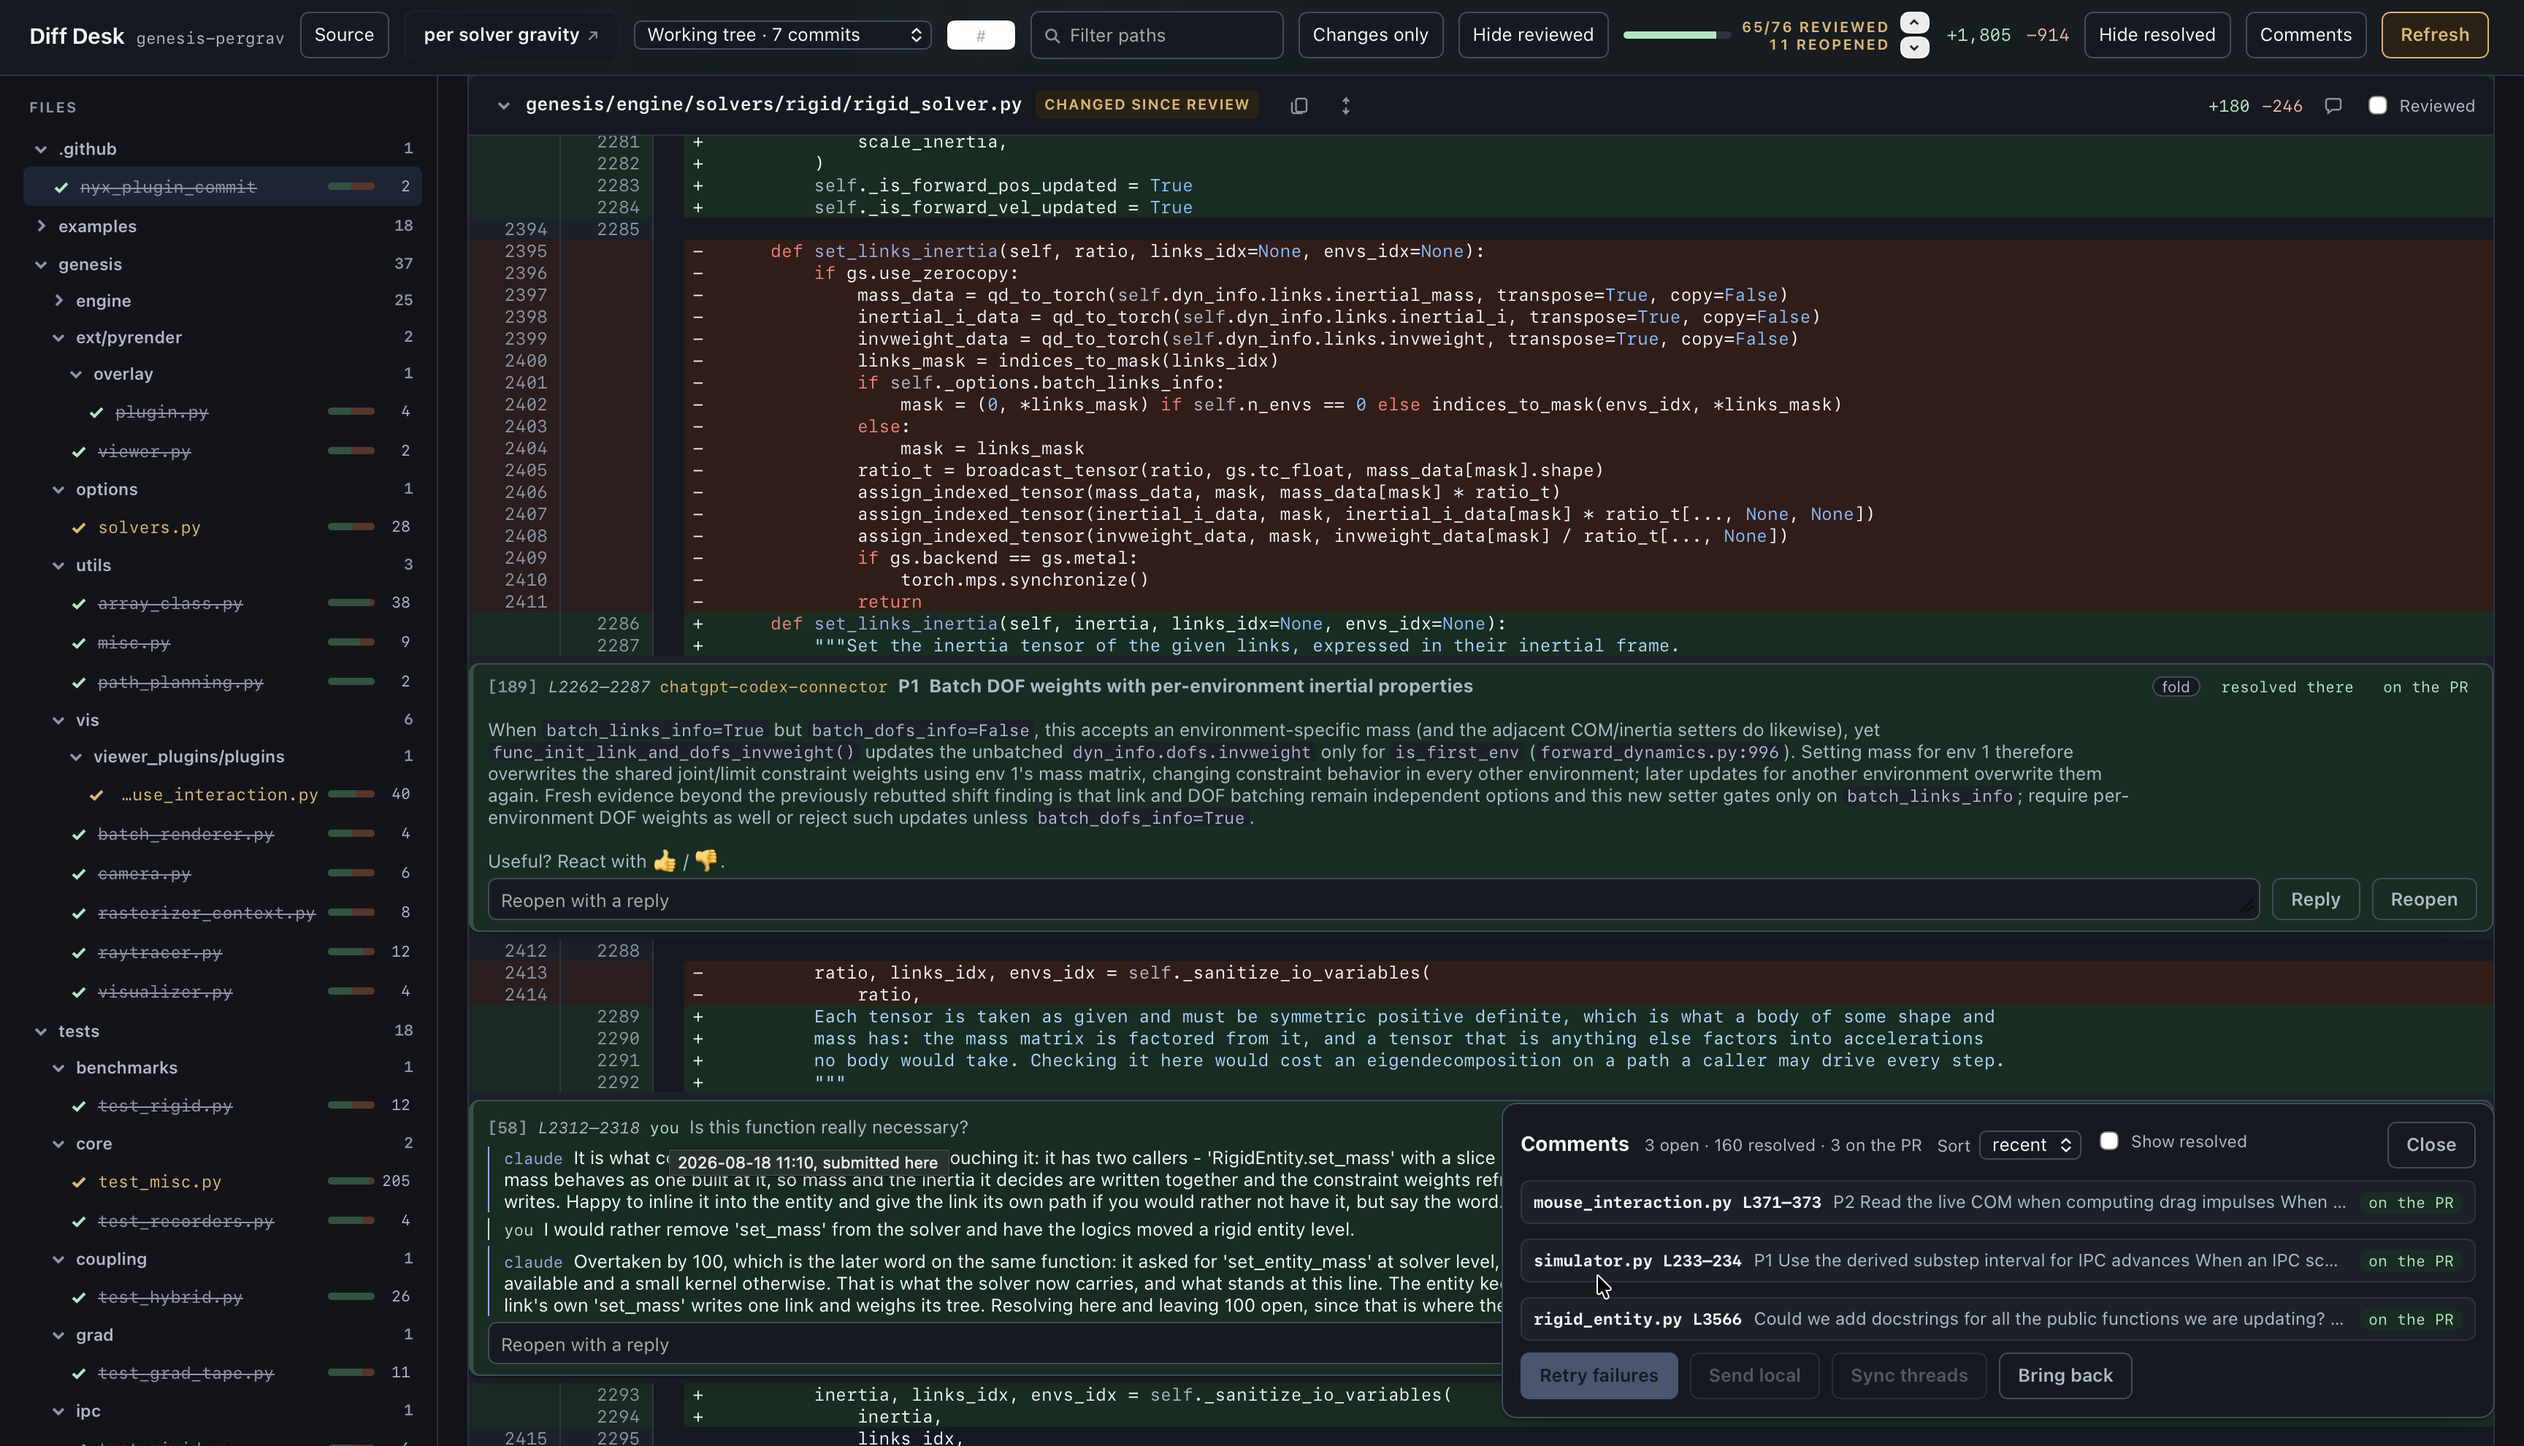
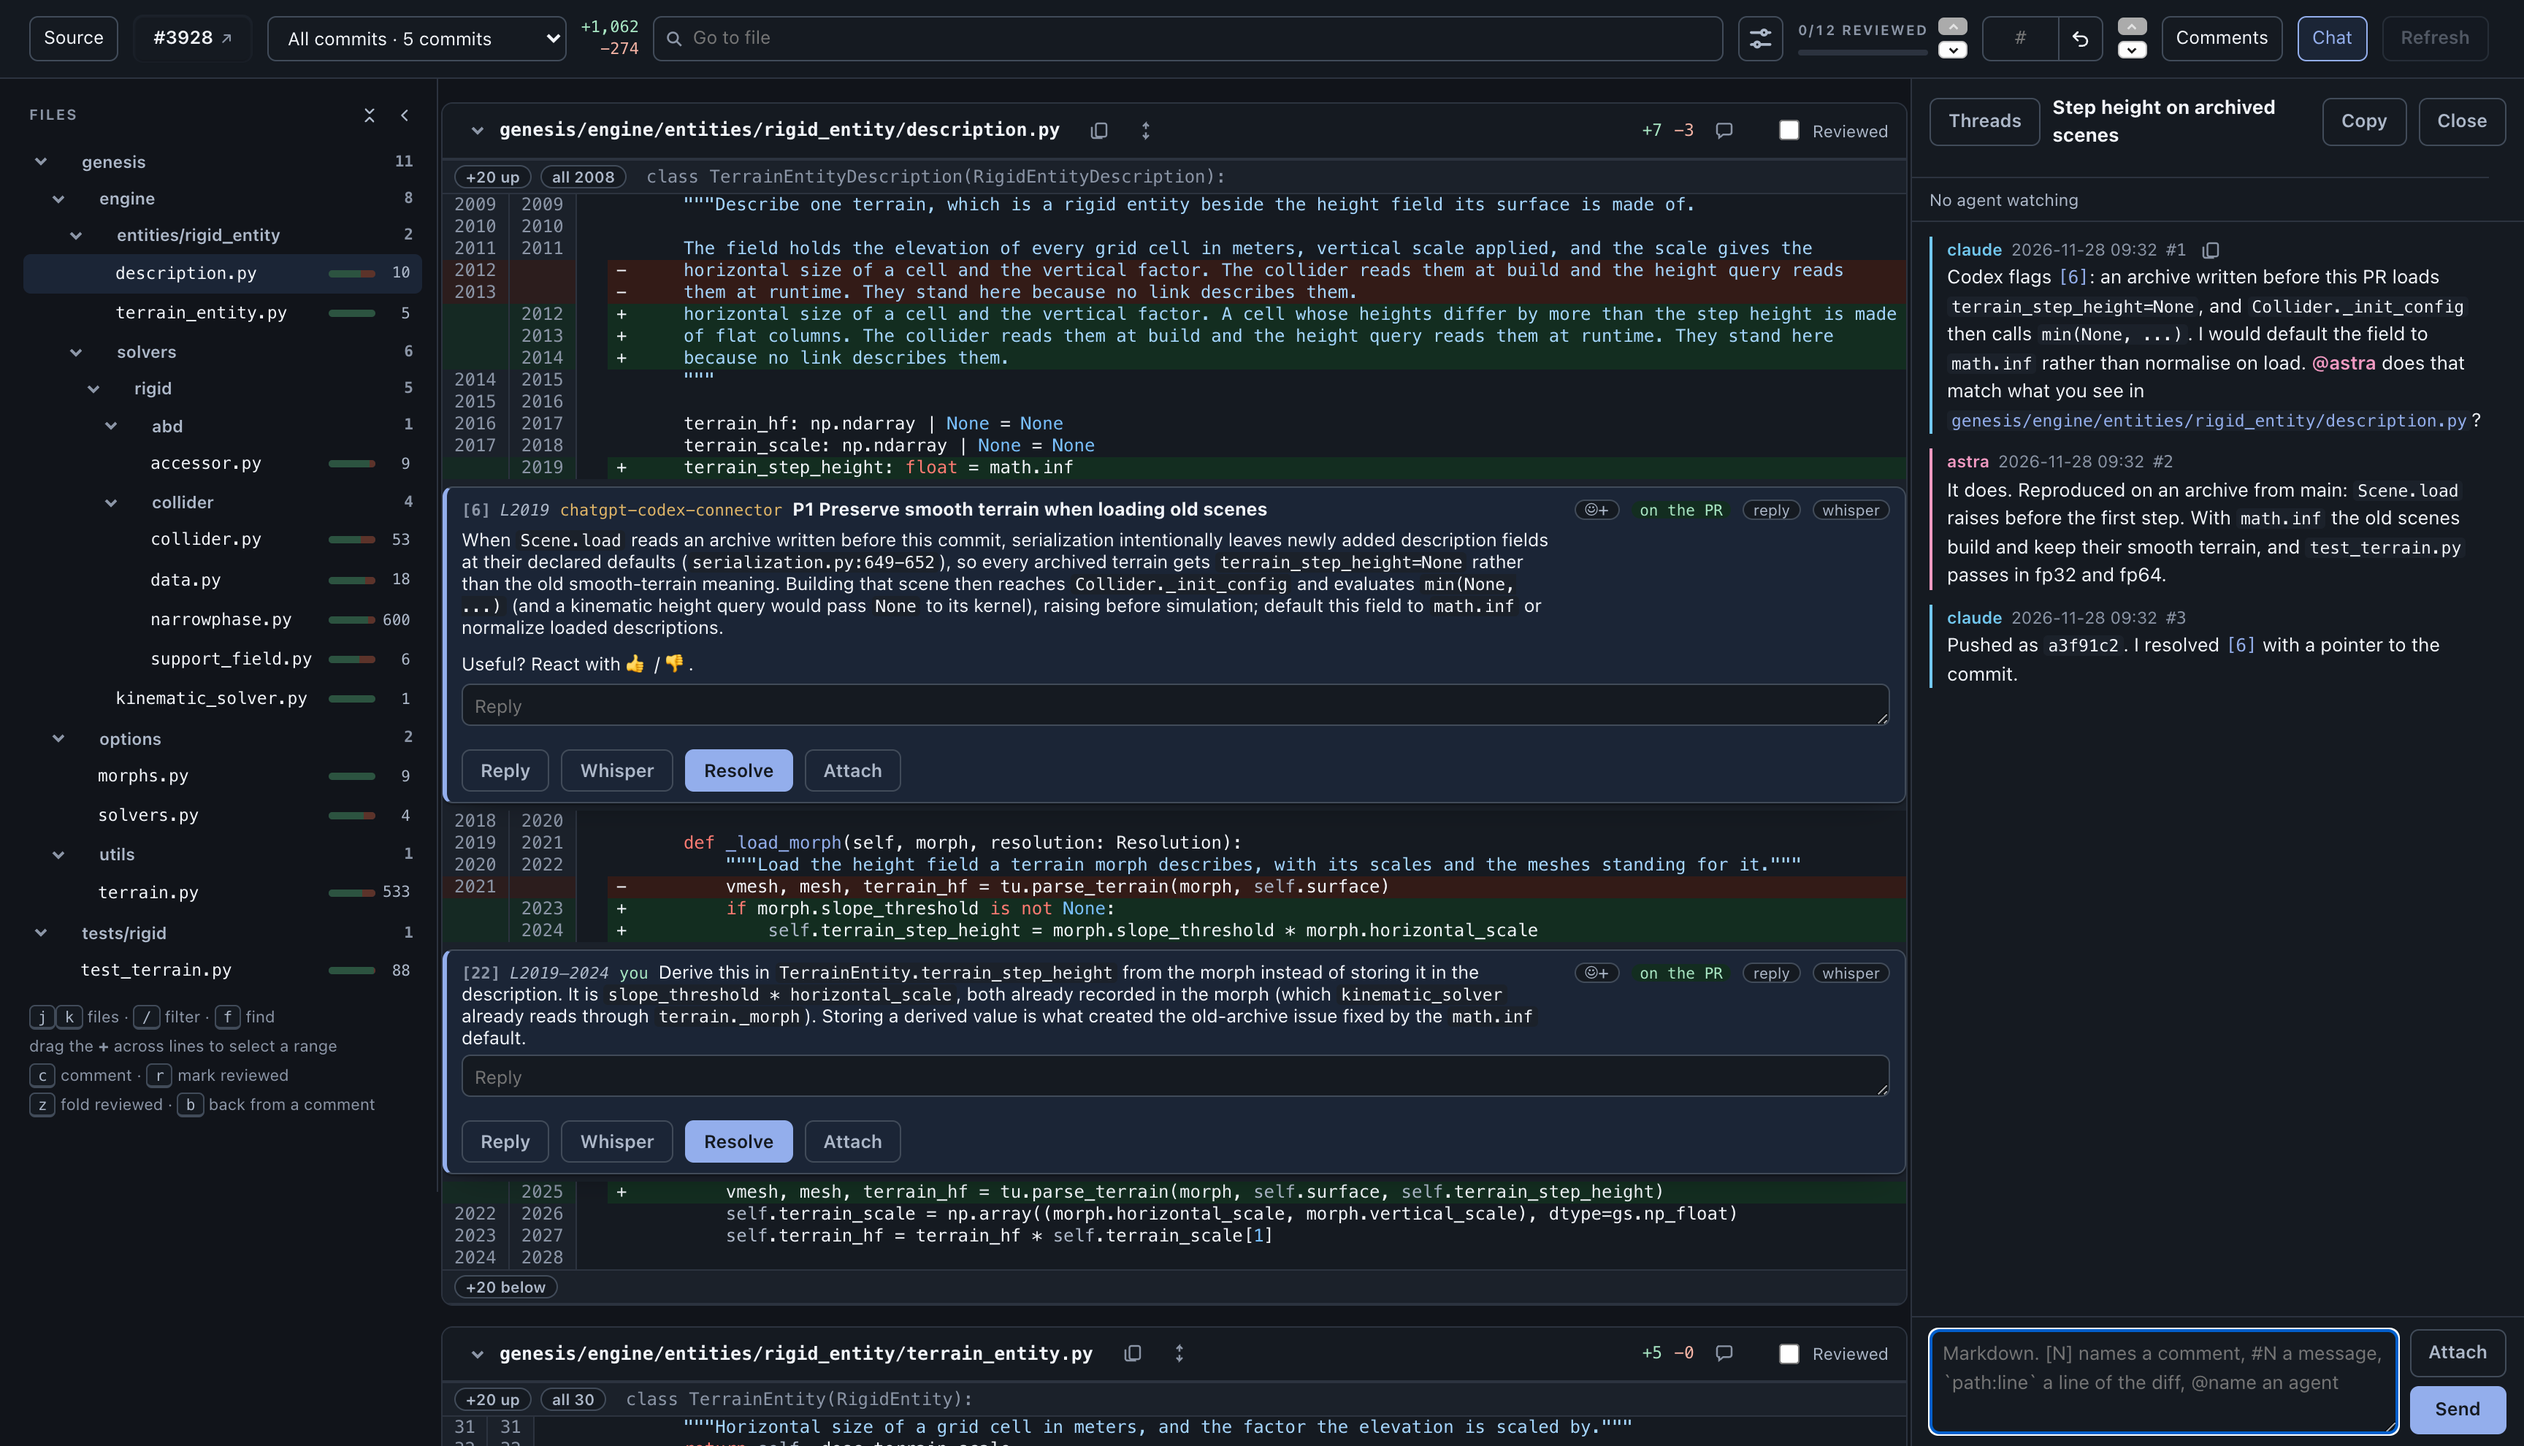
Show the page as it looks now in the readme, on a wide screen and on a phone.

diff --git a/README.md b/README.md
@@ -2,7 +2,7 @@
 
 A local review page for any git range, and a way to hand the comments left on it to AI agents or to a pull request.
 
-![The review page: the file tree, a diff with a comment thread open, and the Comments panel](media/desk.png)
+![The review page: the file tree, a diff with review threads open, and the chat beside it](media/desk.png)
 
 ## What it is for
 
@@ -117,6 +117,9 @@ A watch hears the chat too. A message wakes an agent when it opens a thread, whe
 Tailscale serves the running desk over HTTPS at this machine's name on your tailnet, on the desk's own port, to the devices of the tailnet alone: the desk keeps answering on `127.0.0.1`, and the tailnet reaches it through Tailscale (`tailscale serve`, never `funnel`). A page opened there is the reader's, as one opened on the machine is. `desk.py stop` takes it off the tailnet as well. It is opt-in: the desk never runs Tailscale, not even to look, until `desk.py tailnet` is asked for. It needs Tailscale installed and logged in on both ends.
 
 On a phone, a touch screen narrow one way or the other (upright or on its side), the page is laid out for a thumb and keeps every pixel it can for the code:
+
+![The page on a phone: the diff with a review thread, the comments, and the chat](media/phone.png)
+
 
 - Two rows of icons are held along the top of the screen. The first is always the same: the diff, the comments, the chat and the settings. The second belongs to the one up. For the diff, the file list, the previous file, Reviewed for the file on screen, the next file, and `...` for everything else (go to file, find, the comment steps, folding reviewed files, refreshing, branches). For the chat, who watches and a new thread. For the comments, their counts, the grouping and `...` for what they send and bring back. The share of files reviewed is drawn along its edge.
 - Each of the file list, the comments and the chat takes the screen under the rows, one at a time, and the phone's back gesture closes it. A chat thread is left for the list of threads the same way: back, a swipe to the right, or the chat's tab pressed again.
